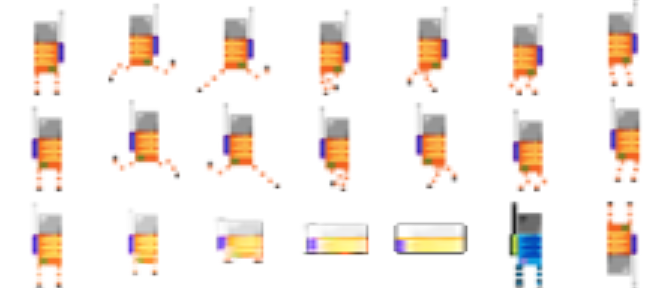
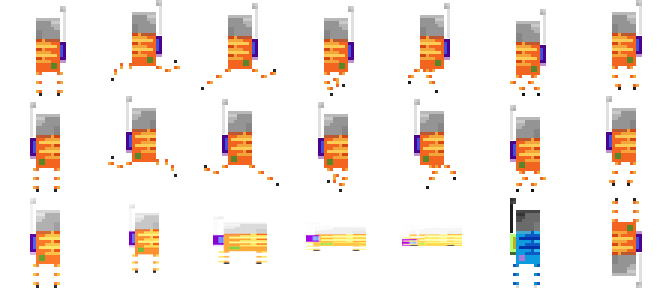
adding new resolution right sprites from pat

diff --git a/js/cravasse.js b/js/cravasse.js
@@ -12,7 +12,7 @@ $(function(){
   
   var canvasElem = document.getElementById("world");
   var world = boxbox.createWorld(canvasElem, {
-    // collisionOutlines: true,
+    collisionOutlines: true,
     gravity: 60,
     scale: 30
   });
@@ -85,10 +85,10 @@ $(function(){
         color: 'black',
         x: this.position().x,
         y: this.position().y,
-        width: 2.6,
-        height: 1.1,
+        width: 2,
+        height: 0.7,
         imageOffsetX: -0.8,
-        imageOffsetY: -0.8,
+        imageOffsetY: -0.7,
         fixedRotation: true,
         friction: 12,
         density: 1,
@@ -303,10 +303,10 @@ $(function(){
           type: 'static',
           x: list[i].attr.coords.x,
           y:  list[i].attr.coords.y,
-          width: 2.4,
-          height: 1,
-          imageOffsetX: -0.7,
-          imageOffsetY: -0.8,
+          width: 2,
+          height: 0.7,
+          imageOffsetX: -0.8,
+          imageOffsetY: -0.7,
           restitution: 0,
           spriteSheet:true,
           image: 'img/player.png',
